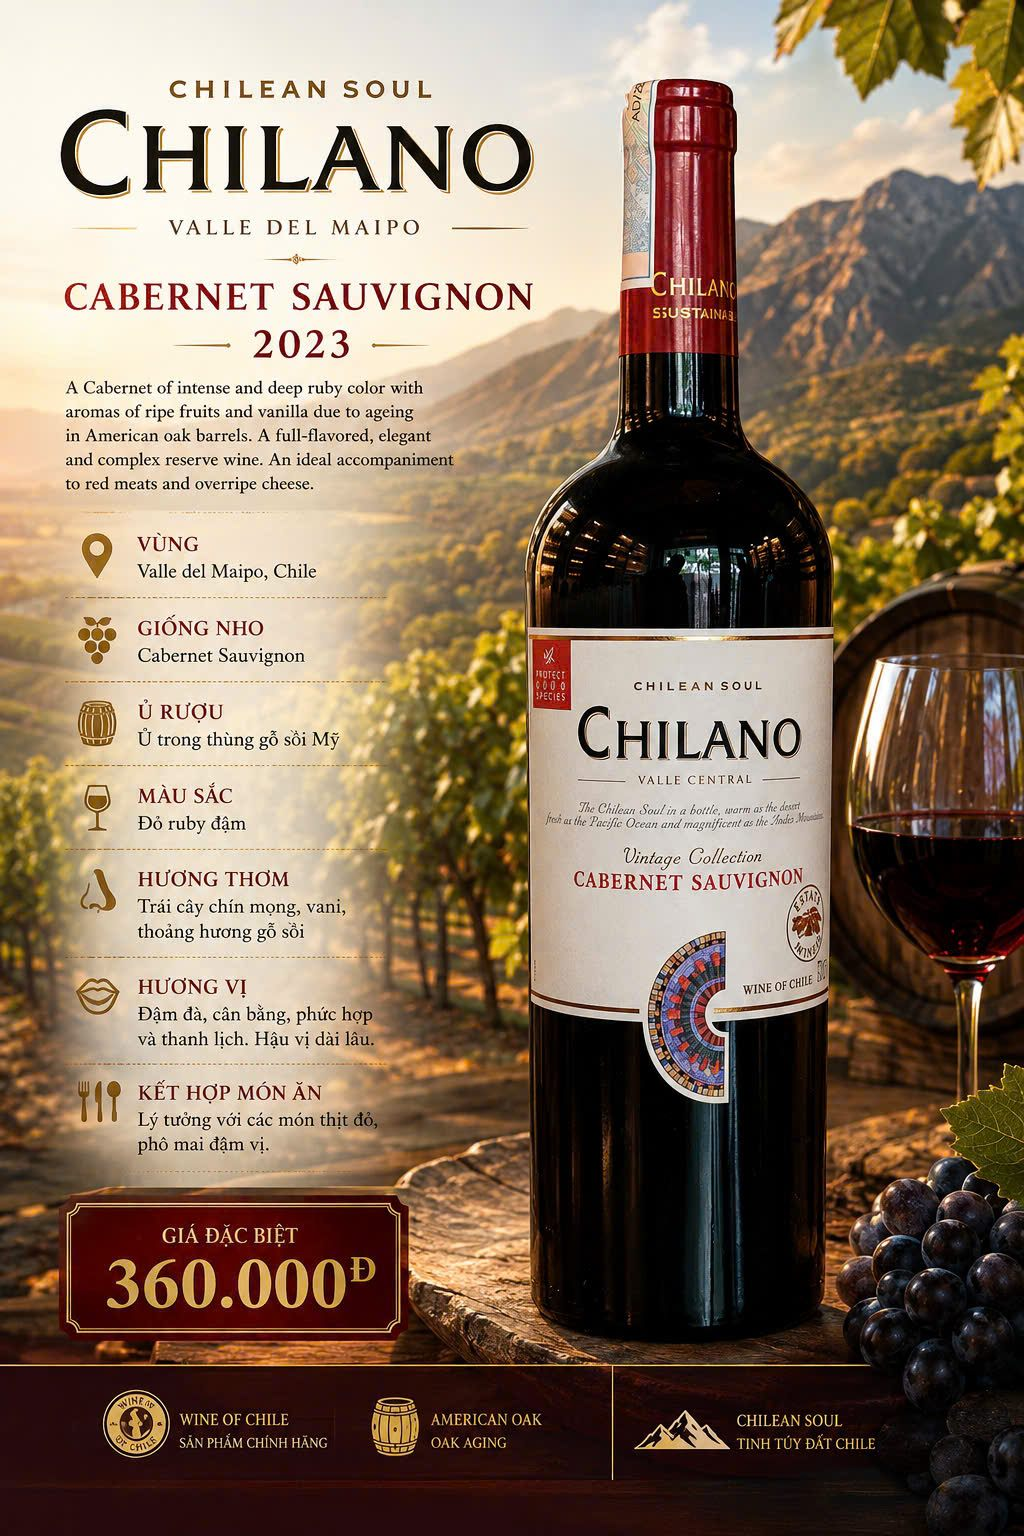
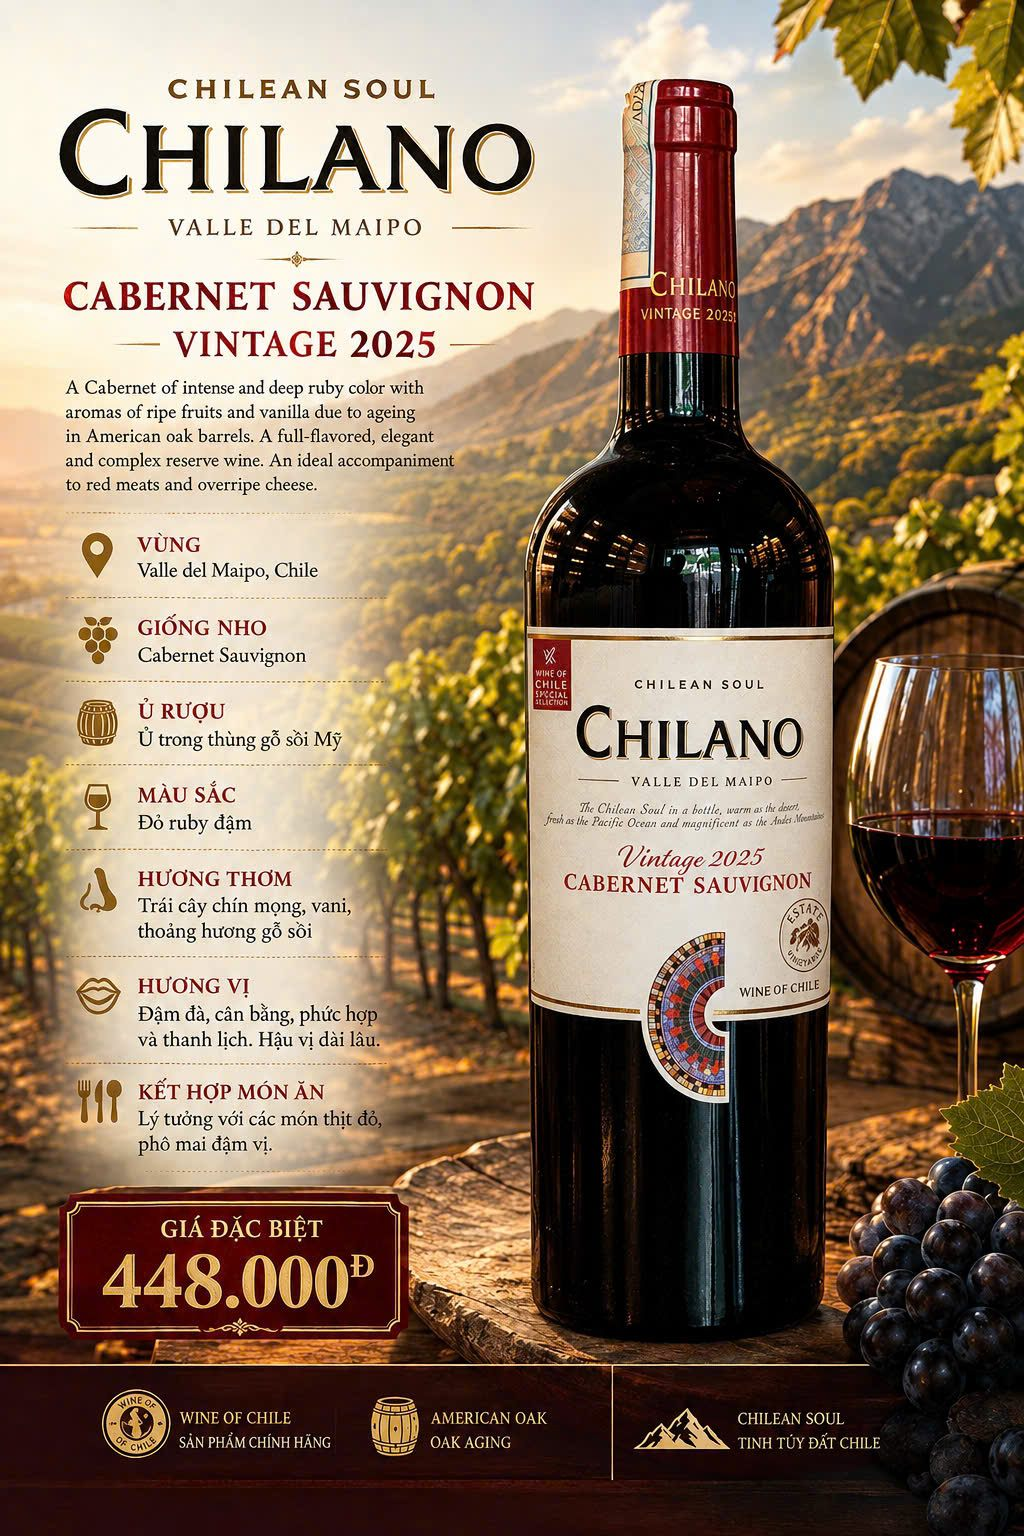
Update product prices and add new wines from latest poster images
- Update Tiraki Marlborough Chardonnay, Villa Blanche Chardonnay, and
  Chilano Cabernet Sauvignon (new 2025 vintage) with new prices/posters
- Add Château des Tourtes Le Duo Bordeaux Blanc, Angove McLaren Vale
  Cabernet Sauvignon, and Tiraki Marlborough Pinot Noir as new products
- Re-sort Vang đỏ and Vang trắng grids by ascending price

diff --git a/index.html b/index.html
@@ -1406,11 +1406,11 @@
             class="w-[46%] sm:w-[32%] md:w-[22%] shrink-0 snap-start text-left group">
             <div class="aspect-[3/4] overflow-hidden">
               <img src="images/chilano-cabernet-sauvignon-valle-del-maipo.jpg"
-                alt="Chilano Cabernet Sauvignon Valle del Maipo – Vintage Collection 2023" loading="lazy"
+                alt="Chilano Cabernet Sauvignon Valle del Maipo – Vintage 2025" loading="lazy"
                 class="w-full h-full object-cover transition-transform duration-500 group-hover:scale-[1.02]">
             </div>
             <p class="mt-3 text-sm">Chilano Cabernet Sauvignon Valle del Maipo</p>
-            <p class="text-sm text-ink/60">360.000₫</p>
+            <p class="text-sm text-ink/60">448.000₫</p>
           </button>
           <button type="button" data-product="one-wine-reserva-cabernet-sauvignon"
             class="w-[46%] sm:w-[32%] md:w-[22%] shrink-0 snap-start text-left group">
@@ -1469,6 +1469,16 @@
             <p class="mt-3 text-sm">Angove McLaren Vale Shiraz 2020</p>
             <p class="text-sm text-ink/60">828.000₫</p>
           </button>
+          <button type="button" data-product="angove-mclaren-vale-cabernet-sauvignon"
+            class="w-[46%] sm:w-[32%] md:w-[22%] shrink-0 snap-start text-left group">
+            <div class="aspect-[3/4] overflow-hidden">
+              <img src="images/angove-mclaren-vale-cabernet-sauvignon.jpg" alt="Angove McLaren Vale Cabernet Sauvignon 2019"
+                loading="lazy"
+                class="w-full h-full object-cover transition-transform duration-500 group-hover:scale-[1.02]">
+            </div>
+            <p class="mt-3 text-sm">Angove McLaren Vale Cabernet Sauvignon 2019</p>
+            <p class="text-sm text-ink/60">828.000₫</p>
+          </button>
           <button type="button" data-product="chateau-hautefeuille"
             class="w-[46%] sm:w-[32%] md:w-[22%] shrink-0 snap-start text-left group">
             <div class="aspect-[3/4] overflow-hidden">
@@ -1507,6 +1517,16 @@
             </div>
             <p class="mt-3 text-sm">Primitivo Puglia Special Edition 2024</p>
             <p class="text-sm text-ink/60">970.000₫</p>
+          </button>
+          <button type="button" data-product="tiraki-marlborough-pinot-noir"
+            class="w-[46%] sm:w-[32%] md:w-[22%] shrink-0 snap-start text-left group">
+            <div class="aspect-[3/4] overflow-hidden">
+              <img src="images/tiraki-marlborough-pinot-noir.jpg" alt="Tiraki Marlborough Pinot Noir 2024"
+                loading="lazy"
+                class="w-full h-full object-cover transition-transform duration-500 group-hover:scale-[1.02]">
+            </div>
+            <p class="mt-3 text-sm">Tiraki Marlborough Pinot Noir 2024</p>
+            <p class="text-sm text-ink/60">1.032.000₫</p>
           </button>
           <button type="button" data-product="chateau-valmy"
             class="w-[46%] sm:w-[32%] md:w-[22%] shrink-0 snap-start text-left group">
@@ -1780,15 +1800,15 @@
             <p class="mt-3 text-sm">One Wine Reserva Chardonnay 2021</p>
             <p class="text-sm text-ink/60">536.000₫</p>
           </button>
-          <button type="button" data-product="villa-blanche-chardonnay"
+          <button type="button" data-product="chateau-des-tourtes-le-duo"
             class="w-[46%] sm:w-[32%] md:w-[22%] shrink-0 snap-start text-left group">
             <div class="aspect-[3/4] overflow-hidden">
-              <img src="images/villa-blanche-chardonnay.jpg" alt="Villa Blanche Calmel & Joseph Chardonnay 2023"
+              <img src="images/chateau-des-tourtes-le-duo.jpg" alt="Château des Tourtes Le Duo Bordeaux Blanc 2024"
                 loading="lazy"
                 class="w-full h-full object-cover transition-transform duration-500 group-hover:scale-[1.02]">
             </div>
-            <p class="mt-3 text-sm">Villa Blanche Calmel & Joseph Chardonnay 2023</p>
-            <p class="text-sm text-ink/60">629.000₫</p>
+            <p class="mt-3 text-sm">Château des Tourtes Le Duo Bordeaux Blanc 2024</p>
+            <p class="text-sm text-ink/60">572.000₫</p>
           </button>
           <button type="button" data-product="tiraki-sauvignon-blanc"
             class="w-[46%] sm:w-[32%] md:w-[22%] shrink-0 snap-start text-left group">
@@ -1818,6 +1838,16 @@
             </div>
             <p class="mt-3 text-sm">One Wine Gran Reserva Sauvignon Blanc 2025</p>
             <p class="text-sm text-ink/60">698.000₫</p>
+          </button>
+          <button type="button" data-product="villa-blanche-chardonnay"
+            class="w-[46%] sm:w-[32%] md:w-[22%] shrink-0 snap-start text-left group">
+            <div class="aspect-[3/4] overflow-hidden">
+              <img src="images/villa-blanche-chardonnay.jpg" alt="Villa Blanche Calmel & Joseph Chardonnay 2023"
+                loading="lazy"
+                class="w-full h-full object-cover transition-transform duration-500 group-hover:scale-[1.02]">
+            </div>
+            <p class="mt-3 text-sm">Villa Blanche Calmel & Joseph Chardonnay 2023</p>
+            <p class="text-sm text-ink/60">710.000₫</p>
           </button>
           <button type="button" data-product="angove-pinot-gris"
             class="w-[46%] sm:w-[32%] md:w-[22%] shrink-0 snap-start text-left group">
@@ -1865,7 +1895,7 @@
                 class="w-full h-full object-cover transition-transform duration-500 group-hover:scale-[1.02]">
             </div>
             <p class="mt-3 text-sm">Tiraki Marlborough Chardonnay 2024</p>
-            <p class="text-sm text-ink/60">968.000₫</p>
+            <p class="text-sm text-ink/60">1.032.000₫</p>
           </button>
           <button type="button" data-product="deux-roches-macon-sur-le-fil"
             class="w-[46%] sm:w-[32%] md:w-[22%] shrink-0 snap-start text-left group">
@@ -2777,7 +2807,7 @@
       'villa-blanche-chardonnay': {
         name: 'Villa Blanche Calmel & Joseph Chardonnay 2023',
         country: 'Pháp',
-        price: '629.000₫',
+        price: '710.000₫',
         image: 'images/villa-blanche-chardonnay.jpg',
         realPhoto: 'images/villa-blanche-chardonnay-real.jpg',
         story: 'calmel-joseph',
@@ -2787,6 +2817,21 @@
           'Vùng trồng nho': 'Pays d\'Oc, Pháp',
           'Niên vụ': '2023',
           'Nồng độ cồn': '13,5% vol',
+          'Dung tích': '750 ml',
+        },
+      },
+      'chateau-des-tourtes-le-duo': {
+        name: 'Château des Tourtes Le Duo Bordeaux Blanc 2024',
+        country: 'Pháp',
+        price: '572.000₫',
+        image: 'images/chateau-des-tourtes-le-duo.jpg',
+        realPhoto: 'images/chateau-des-tourtes-le-duo-real.jpg',
+        desc: 'Vang trắng Bordeaux Blanc, Sauvignon Blanc, Sémillon, Muscadelle, Bordeaux, Pháp, niên vụ 2024.',
+        specs: {
+          'Giống nho': '70% Sauvignon Blanc, 20% Sémillon, 10% Muscadelle',
+          'Vùng trồng nho': 'Bordeaux, Pháp',
+          'Niên vụ': '2024',
+          'Nồng độ cồn': '12% vol',
           'Dung tích': '750 ml',
         },
       },
@@ -3043,13 +3088,29 @@
       'tiraki-marlborough-chardonnay': {
         name: 'Tiraki Marlborough Chardonnay 2024',
         country: 'New Zealand',
-        price: '968.000₫',
+        price: '1.032.000₫',
         image: 'images/tiraki-marlborough-chardonnay.jpg',
         realPhoto: 'images/tiraki-marlborough-chardonnay-real.jpg',
         story: 'tiraki',
         desc: 'Vang trắng Chardonnay, Marlborough, New Zealand, niên vụ 2024.',
         specs: {
           'Giống nho': 'Chardonnay',
+          'Vùng trồng nho': 'Marlborough, New Zealand',
+          'Niên vụ': '2024',
+          'Nồng độ cồn': '13,5% vol',
+          'Dung tích': '750 ml',
+        },
+      },
+      'tiraki-marlborough-pinot-noir': {
+        name: 'Tiraki Marlborough Pinot Noir 2024',
+        country: 'New Zealand',
+        price: '1.032.000₫',
+        image: 'images/tiraki-marlborough-pinot-noir.jpg',
+        realPhoto: 'images/tiraki-marlborough-pinot-noir-real.jpg',
+        story: 'tiraki',
+        desc: 'Vang đỏ Pinot Noir, Marlborough, New Zealand, niên vụ 2024.',
+        specs: {
+          'Giống nho': 'Pinot Noir',
           'Vùng trồng nho': 'Marlborough, New Zealand',
           'Niên vụ': '2024',
           'Nồng độ cồn': '13,5% vol',
@@ -3152,6 +3213,22 @@
           'Vùng trồng nho': 'McLaren Vale, Úc',
           'Niên vụ': '2020',
           'Nồng độ cồn': '13,5% vol',
+          'Dung tích': '750 ml',
+        },
+      },
+      'angove-mclaren-vale-cabernet-sauvignon': {
+        name: 'Angove McLaren Vale Cabernet Sauvignon 2019',
+        country: 'Úc',
+        price: '828.000₫',
+        image: 'images/angove-mclaren-vale-cabernet-sauvignon.jpg',
+        realPhoto: 'images/angove-mclaren-vale-cabernet-sauvignon-real.jpg',
+        story: 'angove',
+        desc: 'Vang đỏ Cabernet Sauvignon, McLaren Vale, Úc, niên vụ 2019.',
+        specs: {
+          'Giống nho': 'Cabernet Sauvignon',
+          'Vùng trồng nho': 'McLaren Vale, Úc',
+          'Niên vụ': '2019',
+          'Nồng độ cồn': '14,5% vol',
           'Dung tích': '750 ml',
         },
       },
@@ -3378,17 +3455,17 @@
         },
       },
       'chilano-cabernet-sauvignon-valle-del-maipo': {
-        name: 'Chilano Cabernet Sauvignon Valle del Maipo – Vintage Collection 2023',
+        name: 'Chilano Cabernet Sauvignon Valle del Maipo – Vintage 2025',
         country: 'Chile',
-        price: '360.000₫',
+        price: '448.000₫',
         image: 'images/chilano-cabernet-sauvignon-valle-del-maipo.jpg',
         realPhoto: 'images/chilano-cabernet-sauvignon-valle-del-maipo-real.jpg',
         story: 'chilano',
-        desc: 'Vang đỏ Cabernet Sauvignon, Valle del Maipo, Chile, niên vụ 2023.',
+        desc: 'Vang đỏ Cabernet Sauvignon, Valle del Maipo, Chile, niên vụ 2025.',
         specs: {
           'Giống nho': 'Cabernet Sauvignon',
           'Vùng trồng nho': 'Valle del Maipo, Chile',
-          'Niên vụ': '2023',
+          'Niên vụ': '2025',
           'Dung tích': '750 ml',
         },
       },
